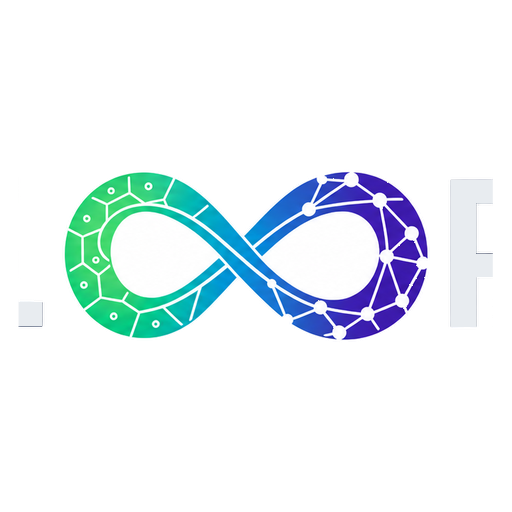
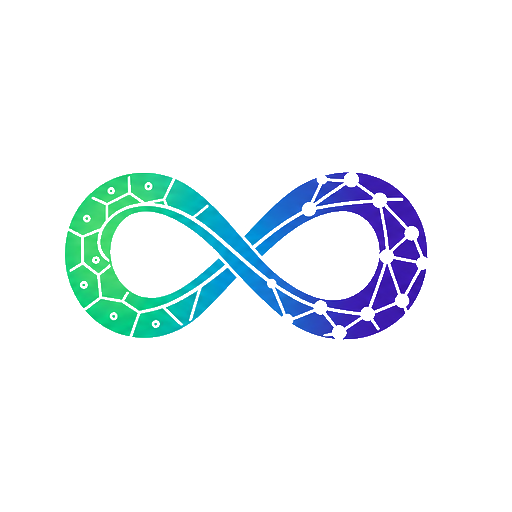
Add files via upload

diff --git a/assets/css/loop.css b/assets/css/loop.css
@@ -10,14 +10,18 @@
 
 /* ── Brand lockup ─────────────────────────────────────────────────────────
    The gem prints the site title as text, and prints nothing at all on the
-   home page. Two rules cover both cases with the same artwork.             */
+   home page. Two rules cover both cases with the same artwork.
 
-/* 1. Every page except home: the real brand link is kept (so it still goes
-      home) but its text is swapped for the logo. */
+   To switch logo artwork, change the four url() values below:
+     loop-logo-alt.png       <-> loop-logo.png
+     loop-logo-alt-dark.png  <-> loop-logo-dark.png
+   and the aspect-ratio:  5.317 (alt)  <->  4.892 (original)          */
+
 .navbar-brand.title {
   display: inline-block;
-  width: 181px;
   height: 34px;
+  aspect-ratio: 5.317;
+  width: auto;
   font-size: 0;
   line-height: 0;
   color: transparent;
@@ -26,18 +30,18 @@
   padding-bottom: 0;
 }
 
-/* 2. Home page: the gem renders no brand at all, so draw it on the navbar
-      container instead. :not(:has(...)) keeps it off every other page.     */
+/* Home page: the gem renders no brand at all, so draw it on the navbar
+   container instead. :not(:has(...)) keeps it off every other page. */
 .navbar .container:not(:has(.navbar-brand))::before {
   content: "";
   flex: 0 0 auto;
   align-self: center;
-  width: 181px;
   height: 34px;
+  aspect-ratio: 5.317;
   background: url("../img/loop-logo-alt.png") left center / contain no-repeat;
 }
 
-/* 3. Dark theme uses the light-lettered artwork. */
+/* Dark theme uses the light-lettered artwork. */
 html[data-theme="dark"] .navbar-brand.title,
 html[data-theme="dark"] .navbar .container:not(:has(.navbar-brand))::before {
   background-image: url("../img/loop-logo-alt-dark.png");
@@ -46,7 +50,6 @@ html[data-theme="dark"] .navbar .container:not(:has(.navbar-brand))::before {
 @media (max-width: 576px) {
   .navbar-brand.title,
   .navbar .container:not(:has(.navbar-brand))::before {
-    width: 138px;
     height: 26px;
   }
 }

diff --git a/_pages/research.md b/_pages/research.md
@@ -48,10 +48,10 @@ tissue depending on what we build them into.
 #### Journal Publications
 
 "Strategic Approaches in Generation of Robust Microphysiological 3D Musculoskeletal Tissue System."
-Kim et al., _Advanced Functional Materials_ 2024
+Kim et al., *Advanced Functional Materials* 2024
 
 "Development of a 3D Vascularized Skeletal Muscle Model Using Bi-Layered Seeding Methods."
-Kim et al., _BioChip Journal_ 2025
+Kim et al., *BioChip Journal* 2025
 
 ---
 
@@ -106,10 +106,10 @@ tomorrow. A readout that does not reproduce is not a readout.
 #### Journal Publications
 
 "Detrimental Effects of Advanced Glycation End-Products (AGEs) on a 3D Skeletal Muscle Model in Microphysiological System."
-Kim et al., _Biosensors and Bioelectronics_ 2025
+Kim et al., *Biosensors and Bioelectronics* 2025
 
 "Investigation on the Effect of Cyclic Stretch and Hypoxia on Recovery of Damaged Skeletal Muscle Cells Using Microfluidic System."
-Kim et al., _Advanced Materials Technologies_ 2021
+Kim et al., *Advanced Materials Technologies* 2021
 
 ---
 
@@ -135,10 +135,10 @@ measurable — and so that a model has something to learn the coupling from.
 #### Journal Publications
 
 "Implementation of Drug-Induced Rhabdomyolysis and Acute Kidney Injury in Microphysiological System."
-Kim et al., _Advanced Functional Materials_ 2026
+Kim et al., *Advanced Functional Materials* 2026
 
 "Investigation of the Dysfunction Caused by High Glucose, Advanced Glycation End Products, and Interleukin-1 Beta and the Effects of Therapeutic Agents on the Microphysiological Artery Model."
-Nam et al., _Advanced Healthcare Materials_ 2024
+Nam et al., *Advanced Healthcare Materials* 2024
 
 ---
 
@@ -157,14 +157,14 @@ Nam et al., _Advanced Healthcare Materials_ 2024
 The platform produces four kinds of data, and the work is turning them into one table a
 model can read.
 
-| Modality          | What it captures                                             |
-| ----------------- | ------------------------------------------------------------ |
-| **Imaging**       | tissue architecture, alignment and viability across the chip |
-| **Morphometrics** | per-cell shape, size and orientation                         |
-| **Functional**    | contractile force, barrier permeability, dose response       |
-| **Omics**         | transcriptomic state, reduced to pathway-level scores        |
+| Modality | What it captures |
+|---|---|
+| **Imaging** | tissue architecture, alignment and viability across the chip |
+| **Morphometrics** | per-cell shape, size and orientation |
+| **Functional** | contractile force, barrier permeability, dose response |
+| **Omics** | transcriptomic state, reduced to pathway-level scores |
 
-These become a feature matrix of _samples × features_, which is what a model actually
+These become a feature matrix of *samples × features*, which is what a model actually
 learns from. Because the training data and the validation experiment come from the same
 bench, a prediction here can be falsified rather than merely reported. That is the part
 of machine learning for drug discovery that is usually missing.
